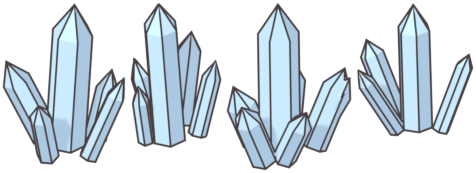
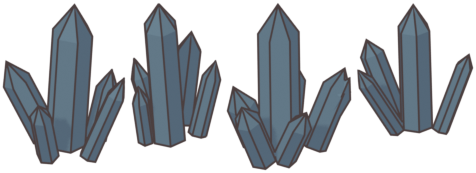
exp(scene): 夜景方向試作，環境壓暗降彩（F2，只在實驗分支）
障礙物與地表裝飾重烘成暗色；地形曝光調低並新增群系彩度 TERRAIN_SKIN.chroma（烘焙時以 saturation 混合套用）。
perf:layers 明度順序違反 12 筆 → 4 筆。lint、npm test（1704 過）、build、runtime-smoke 通過。
保真基準沒有重錄，這個分支的 perf:fidelity 預期是紅的；地形亮度低於 lumaBudget.min，進 main 前要先改規格。
回退：revert 本 commit。

diff --git a/engine/renderers/grid/TerrainRenderer.ts b/engine/renderers/grid/TerrainRenderer.ts
@@ -52,6 +52,30 @@ function applyExposure(ctx: CanvasRenderingContext2D, canvas: CanvasImageSource 
     ctx.restore();
 }
 
+/**
+ * 群系彩度（TERRAIN_SKIN.chroma，F2 試作）：只在烘焙時執行。把地塊複製到暫存畫布，用 saturation 混合蓋一層灰
+ * （灰的彩度是 0，所以結果往灰階靠；alpha＝1 − chroma），再以 source-atop 畫回，原本透明的地方不動。
+ */
+function applyChroma(ctx: CanvasRenderingContext2D, canvas: CanvasImageSource & { width: number; height: number }, chroma: number, scratch: { canvas: CanvasImageSource; ctx: CanvasRenderingContext2D }): void {
+    if (!(chroma >= 0) || chroma >= 1) return;
+    const sCtx = scratch.ctx;
+    sCtx.save();
+    sCtx.setTransform(1, 0, 0, 1, 0, 0);
+    sCtx.drawImage(canvas, 0, 0);
+    sCtx.globalCompositeOperation = 'saturation';
+    sCtx.globalAlpha = 1 - chroma;
+    sCtx.fillStyle = CHROMA_NEUTRAL;
+    sCtx.fillRect(0, 0, canvas.width, canvas.height);
+    sCtx.restore();
+    ctx.save();
+    ctx.setTransform(1, 0, 0, 1, 0, 0);
+    ctx.globalCompositeOperation = 'source-atop';
+    ctx.drawImage(scratch.canvas, 0, 0);
+    ctx.restore();
+}
+/** saturation 混合的來源色：任何無彩度的顏色都一樣，只取它的彩度 0 */
+const CHROMA_NEUTRAL = '#808080';
+
 const PEDESTAL_DEPTH = 45; 
 const EXPANSION_BIAS = 0.6;
 
@@ -558,6 +582,8 @@ export const TerrainRenderer = {
 
         sCtx.restore();
         applyExposure(sCtx, surface.canvas, TERRAIN_SKIN.exposure[type] ?? 1);
+        const chroma = TERRAIN_SKIN.chroma[type] ?? 1;
+        if (chroma < 1) applyChroma(sCtx, surface.canvas, chroma, factory(pixelW, pixelH));
 
         return {
             canvas: surface.canvas,

diff --git a/constants/terrain.ts b/constants/terrain.ts
@@ -426,6 +426,11 @@ export interface TerrainSkinConfig {
      * 量測與驗收：node tools/ui-e2e/terrain-contrast.mjs（acceptance 會檢查 lumaBudget）。未列的群系為 1。
      */
     exposure: Readonly<Record<string, number>>;
+    /**
+     * 群系彩度（F2 試作，docs/plans/visual-experiment.md）：烘焙時在曝光之後套用，1＝不變、0＝灰階。
+     * 用來讓環境退到單位後面；量測：npm run perf:layers。未列的群系為 1。
+     */
+    chroma: Readonly<Record<string, number>>;
     lumaBudget: { readonly min: number; readonly max: number };
 }
 
@@ -444,7 +449,10 @@ export const TERRAIN_SKIN: TerrainSkinConfig = {
         cliffRimAlpha: 0.45,
     },
     // 2026-10-18 量測（貼圖路徑頂面中心 luma）：VOID 29、FOREST 53、MAGMA 46、ICE 128、DESERT 104
-    exposure: { VOID: 1.65, FOREST: 1.18, MAGMA: 1.12, ICE: 0.67, DESERT: 0.81 },
+    // F2 試作（夜景方向，2026-11-27）：FOREST、ICE、DESERT 壓到 VOID／MAGMA 的亮度（頂面中位數約 38～45）。
+    // 原值 FOREST 1.18、ICE 0.67、DESERT 0.81；這會低於 lumaBudget.min，進 main 前要先改規格。
+    exposure: { VOID: 1.65, FOREST: 0.75, MAGMA: 1.12, ICE: 0.35, DESERT: 0.43 },
+    chroma: { FOREST: 0.5, ICE: 0.6, DESERT: 0.5 },
     lumaBudget: { min: 45, max: 90 },
     foundation: {
         levels: 15,

diff --git a/tools/assets/blender/render_obstacle.py b/tools/assets/blender/render_obstacle.py
@@ -27,7 +27,13 @@ KENNEY = os.path.join(ASSETS, 'kenney_nature_kit/extracted/Models/GLTF format')
 
 # fit: max footprint radius (hex units); height: projected screen height in canvas units; tint multiplies the
 # model colour (None = keep), override replaces it.
-TREE_TINT = (0.46, 0.60, 0.62)   # multiplies the KayKit tree colours (linear); (1, 1, 1) = the shipped look
+# F2 trial, direction C (night): environment value sits under the unit median measured by perf:layers (~58 of 255).
+# All colours are linear; the shipped values are in the trailing comments.
+TREE_TINT = (0.17, 0.24, 0.26)        # shipped: no tint (1, 1, 1)
+SANDSTONE_RGB = (0.075, 0.058, 0.048)  # shipped: (0.86, 0.60, 0.36)
+GRASS_TINT = (0.20, 0.29, 0.24)        # shipped: (0.54, 0.78, 0.48)
+PEBBLE_RGB = (0.070, 0.055, 0.045)     # shipped: (0.55, 0.36, 0.20)
+ICE_GLOW_STRENGTH = 0.06               # shipped: 0.18
 TYPES = {
     # F2 trial (exp/visual-lighting): canopy value pulled under the unit median (perf:layers); teal-leaning, less chroma
     'TREE': {'fit': 1.05, 'tint': TREE_TINT, 'variants': [
@@ -40,7 +46,7 @@ TYPES = {
     'WALL': {'fit': 0.80, 'variants': [
         {'prisms': 'void_monolith', 'seed': s, 'height': h} for s, h in ((31, 104), (32, 96), (33, 112), (34, 100))
     ]},
-    'SANDSTONE': {'fit': 0.86, 'override': (0.86, 0.60, 0.36), 'variants': [
+    'SANDSTONE': {'fit': 0.86, 'override': SANDSTONE_RGB, 'variants': [
         {'file': f'{KENNEY}/rock_tallA.glb', 'height': 72},
         {'file': f'{KENNEY}/rock_tallB.glb', 'height': 64},
         {'file': f'{KENNEY}/rock_tallC.glb', 'height': 78},
@@ -54,7 +60,7 @@ TYPES = {
         {'prisms': 'obsidian', 'seed': s, 'height': h} for s, h in ((11, 108), (12, 96), (13, 116), (14, 100))
     ]},
     # 不阻擋的地表裝飾（VISUAL_ROADMAP T2）：小尺寸、細描邊；TerrainLoopAtlas／bakeBlock 依格子雜湊擺放
-    'DECOR_GRASS': {'fit': 0.30, 'outline': 1.0, 'tint': (0.54, 0.78, 0.48), 'variants': [
+    'DECOR_GRASS': {'fit': 0.30, 'outline': 1.0, 'tint': GRASS_TINT, 'variants': [
         {'file': f'{FOREST}/Grass_1_A_Color1.gltf', 'height': 16},
         {'file': f'{FOREST}/Grass_1_C_Color1.gltf', 'height': 16},
         {'file': f'{FOREST}/Grass_1_B_Color1.gltf', 'height': 18},
@@ -62,7 +68,7 @@ TYPES = {
         {'file': f'{FOREST}/Bush_1_A_Color1.gltf', 'height': 20},
         {'file': f'{FOREST}/Bush_2_A_Color1.gltf', 'height': 18},
     ]},
-    'DECOR_PEBBLE': {'fit': 0.22, 'outline': 1.0, 'override': (0.55, 0.36, 0.20), 'variants': [
+    'DECOR_PEBBLE': {'fit': 0.22, 'outline': 1.0, 'override': PEBBLE_RGB, 'variants': [
         {'file': f'{KENNEY}/rock_smallA.glb', 'height': 10},
         {'file': f'{KENNEY}/rock_smallFlatA.glb', 'height': 7},
         {'file': f'{KENNEY}/rock_smallC.glb', 'height': 11},
@@ -79,7 +85,7 @@ TYPES = {
     ]},
 }
 
-ICE_RGB = (0.62, 0.86, 1.0)
+ICE_RGB = (0.11, 0.17, 0.22)           # shipped: (0.62, 0.86, 1.0)
 ICE_GLOW = (0.55, 0.85, 1.0)
 OBSIDIAN_RGB = (0.035, 0.028, 0.045)  # linear; Standard view transform lifts it to ~#2a2430
 OBSIDIAN_GLOW = (1.0, 0.36, 0.08)     # sRGB ~ (255,161,79): engine OBSTACLE_SPRITE.GLOW_KEYS.EMBER picks it up
@@ -265,7 +271,7 @@ def render_variant(type_id, cfg, idx, v):
         objs, kind = build_prisms(v['prisms'], v['seed'])
         mat = bpy.data.materials.new(kind)
         if kind in ('ice', 'ice_shards'):
-            toon(mat, base_rgb=ICE_RGB, emission=ICE_GLOW, emission_strength=0.18)
+            toon(mat, base_rgb=ICE_RGB, emission=ICE_GLOW, emission_strength=ICE_GLOW_STRENGTH)
         elif kind == 'void_monolith':
             glow_mask_material(mat, VOID_RGB, VOID_GLOW, 'void')
         else:

diff --git a/docs/plans/visual-experiment.md b/docs/plans/visual-experiment.md
@@ -82,3 +82,21 @@ F6 冷暖方向（森林戰鬥幀離線調色）：Sonnet 評審給現況 4、A 
 F6、F1 取兩位評審的低分：現況 4、A 5、B 5、C 6（兩位看的 B、C 不是同一版，光池加強前後各一）；F1 兩位都判不量產。
 
 F3 抽樣十招（藍方、森林，一位評審，尚未取第二位）：可讀性 5～9、美術 3～7。重複問題：10／10 起手都是同一種同心圓環；7／10 在目標臉上疊白閃或光柱；6／10 藍方特效以金黃為主。評審建議先修 `sb_a1`、`rb_u1`、`wb_a1`。修特效要動 `data/vfx/`，是渲染線，還沒做。
+
+## 9. F2 夜景方向試作（使用者 2026-11-27 選 C）
+
+改了：障礙物與地表裝飾全部重烘（`render_obstacle.py` 的 `TREE_TINT`、`SANDSTONE_RGB`、`GRASS_TINT`、`PEBBLE_RGB`、`ICE_RGB`、`ICE_GLOW_STRENGTH`）；地形曝光 FOREST 1.18→0.75、ICE 0.67→0.35、DESERT 0.81→0.43；新增群系彩度 `TERRAIN_SKIN.chroma`（FOREST 0.5、ICE 0.6、DESERT 0.5，烘焙時套用）。
+
+`npm run perf:layers` 亮度中位數（桌機，改前 → 改後）：
+
+| 群系 | 地塊頂面 | 障礙物 | 單位 |
+| :-- | :-- | :-- | :-- |
+| FOREST | 59.6 → 32.2 | 100.3 → 50.8 | 58.2 → 56.8 |
+| ICE | 87.2 → 40.4 | 118.4 → 76.6 | 57.3 → 55.0 |
+| DESERT | 85.7 → 41.4 | 157.5 → 59.4 | 58.1 → 55.6 |
+
+明度順序的違反 12 筆 → 4 筆（ICE、DESERT 的障礙物仍高於單位）。
+
+還沒處理、看圖看得到的：背景天空與地平線沒有跟著壓暗，現在比島亮；外圈紅色格子變成畫面上最搶眼的東西；沙漠與冰原的群系辨識度變弱；暖色光池還沒做。
+
+規則衝突（進 `main` 前要先決定）：地形頂面亮度低於 `TERRAIN_SKIN.lumaBudget.min`（45）；`ART_SPEC` §3.1 與 `ART_STYLE_BIBLE` §4 的地形色盤；五張群系與 battle_frozen 的保真基準在這個分支都會不符，沒有重錄。`chroma` 用 Canvas 的 `saturation` 混合模式，iPhone 實機還沒看過。
